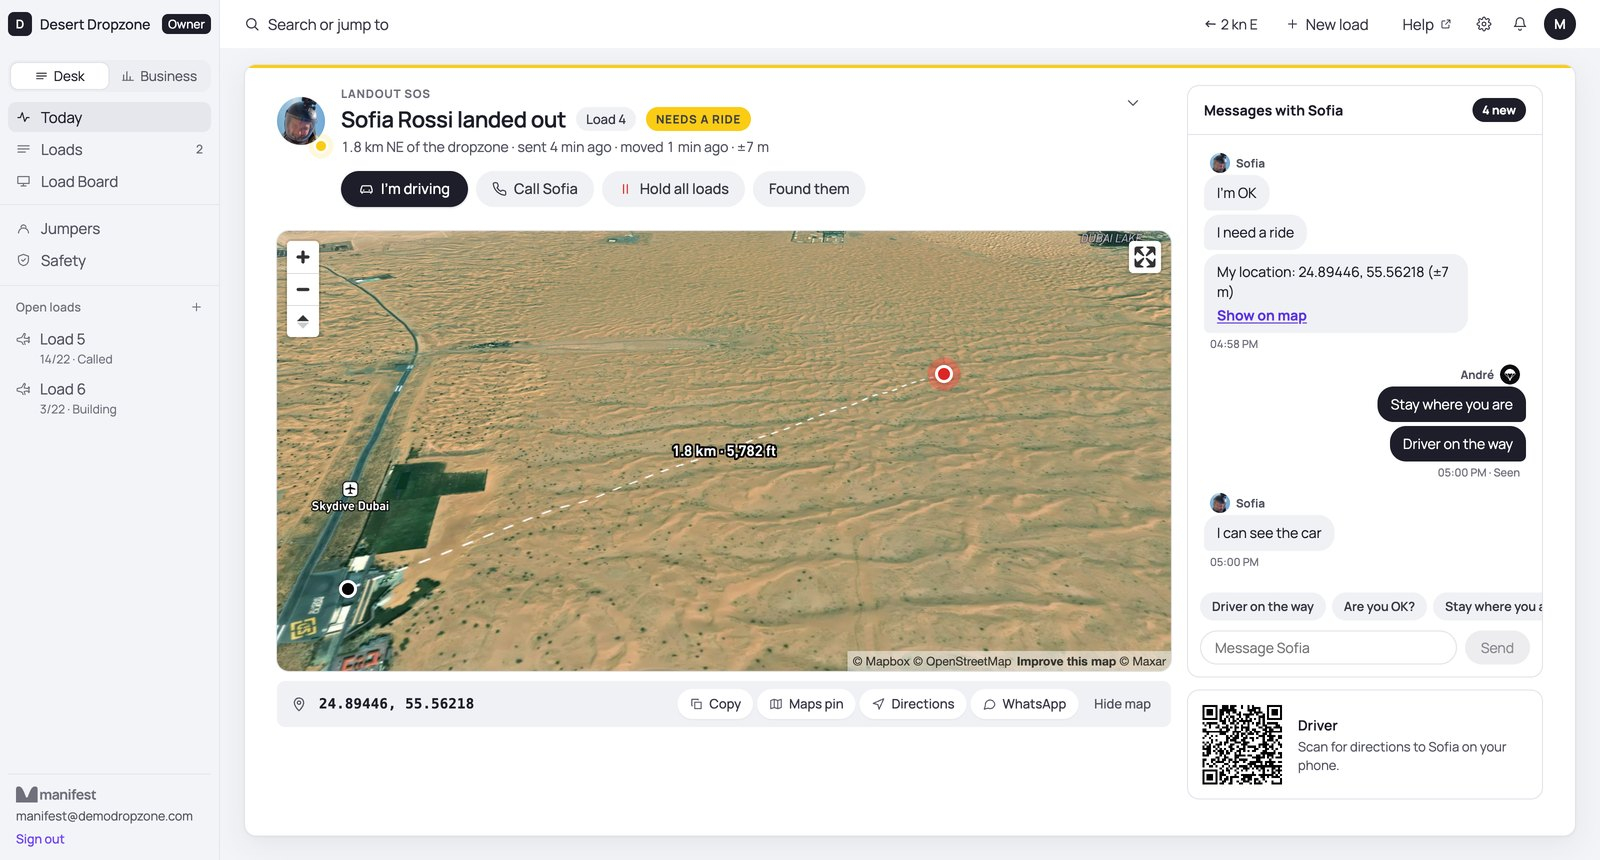
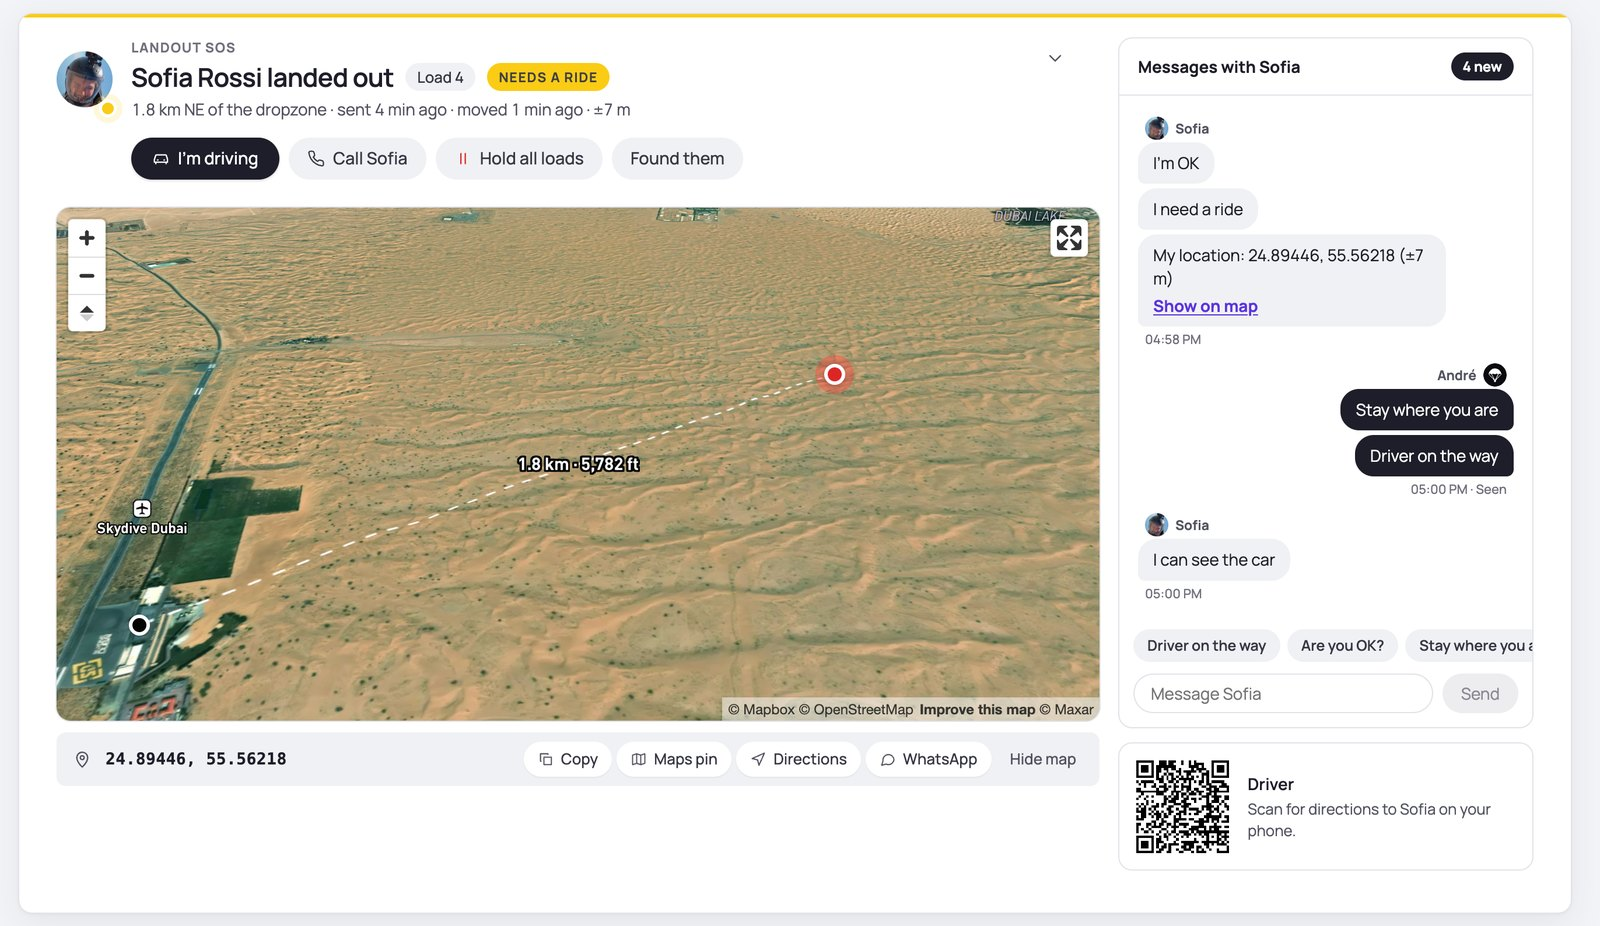
Landout hero: desk cropped to the card and bigger, wider art column, phone overlaps less

diff --git a/skydive-landout-safety/index.html b/skydive-landout-safety/index.html
@@ -598,7 +598,7 @@ section[id], header[id], div[id] { scroll-margin-top: 96px; }
 .seo-art.desk figcaption { margin-top: 18px; }
 .seo-art.lo-pair .lo-row { display: flex; align-items: flex-end; }
 .seo-art.lo-pair .win { flex: 1 1 auto; min-width: 0; }
-.seo-art.lo-pair .lo-phone { position: relative; flex: 0 0 26%; width: 26%; margin: 0 -3% -4% -12%; height: auto; filter: drop-shadow(0 18px 28px rgba(15,23,42,.28)); }
+.seo-art.lo-pair .lo-phone { position: relative; flex: 0 0 24%; width: 24%; margin: 0 -2% -6% -7%; height: auto; filter: drop-shadow(0 18px 28px rgba(15,23,42,.28)); }
 /* load-in, as on the home page */
 @keyframes rise { from { opacity: 0; transform: translateY(40px); } to { opacity: 1; transform: none; } }
 .seo-hero .seo-copy > * { animation: rise .7s cubic-bezier(.2,.75,.25,1) both; }
@@ -609,6 +609,7 @@ section[id], header[id], div[id] { scroll-margin-top: 96px; }
 /* Laptops: side by side like the home hero (1.08fr / 1fr). */
 @media (min-width: 900px) {
   .seo-hero { grid-template-columns: 1.08fr 1fr; column-gap: 56px; min-height: 560px; }
+  .seo-hero.lo-hero { grid-template-columns: 0.9fr 1.25fr; column-gap: 48px; }
   .doc .seo-hero h1 { font-size: clamp(48px, 4.4vw, 64px); line-height: 1.04; letter-spacing: -1.6px; max-width: 15ch; }
   .seo-art .phone { width: clamp(220px, 21vw, 300px); }
   .seo-art .vid { width: clamp(260px, 25vw, 340px); }
@@ -679,13 +680,13 @@ section[id], header[id], div[id] { scroll-margin-top: 96px; }
 
 <main id="main" class="doc">
   <div class="wrap">
-    <div class="seo-hero">
+    <div class="seo-hero lo-hero">
       <div class="seo-copy">
         <h1>Skydive landout safety: find every jumper, fast</h1>
         <p class="intro">A jumper lands out, the next load is boarding, and nobody at the desk knows where they are or whether they are hurt. Manifest turns that moment into a live map, a driver on the way and a clear answer to one question: who&rsquo;s back after the load?</p>
         <p class="seo-cta"><a class="btn" href="mailto:andre@manifestjump.com?subject=Manifest%20Desk%3A%20book%20a%20demo">Book a 20-minute demo</a> <a class="seo-link" href="/dropzones/#pricing">See pricing</a></p>
       </div>
-      <figure class="seo-art desk lo-pair"><div class="lo-row"><img class="win" src="/assets/landout-desk.jpg?v=1" width="1600" height="860" alt="Manifest Desk showing a landout: the jumper on a live map 1.8 km from the dropzone, with the chat and a driver QR code" /><img class="lo-phone" src="/assets/landout-phone.webp?v=1" width="640" height="1325" alt="The jumper's phone: Manifest has your location, with the same chat" /></div><figcaption>The desk and the jumper's phone during a landout, with sample data from a demo dropzone.</figcaption></figure>
+      <figure class="seo-art desk lo-pair"><div class="lo-row"><img class="win" src="/assets/landout-desk.jpg?v=2" width="1600" height="926" alt="Manifest Desk showing a landout: the jumper on a live map 1.8 km from the dropzone, with the chat and a driver QR code" /><img class="lo-phone" src="/assets/landout-phone.webp?v=1" width="640" height="1325" alt="The jumper's phone: Manifest has your location, with the same chat" /></div><figcaption>The desk and the jumper's phone during a landout, with sample data from a demo dropzone.</figcaption></figure>
     </div>
 
     <h2>The problem every dropzone knows</h2>
